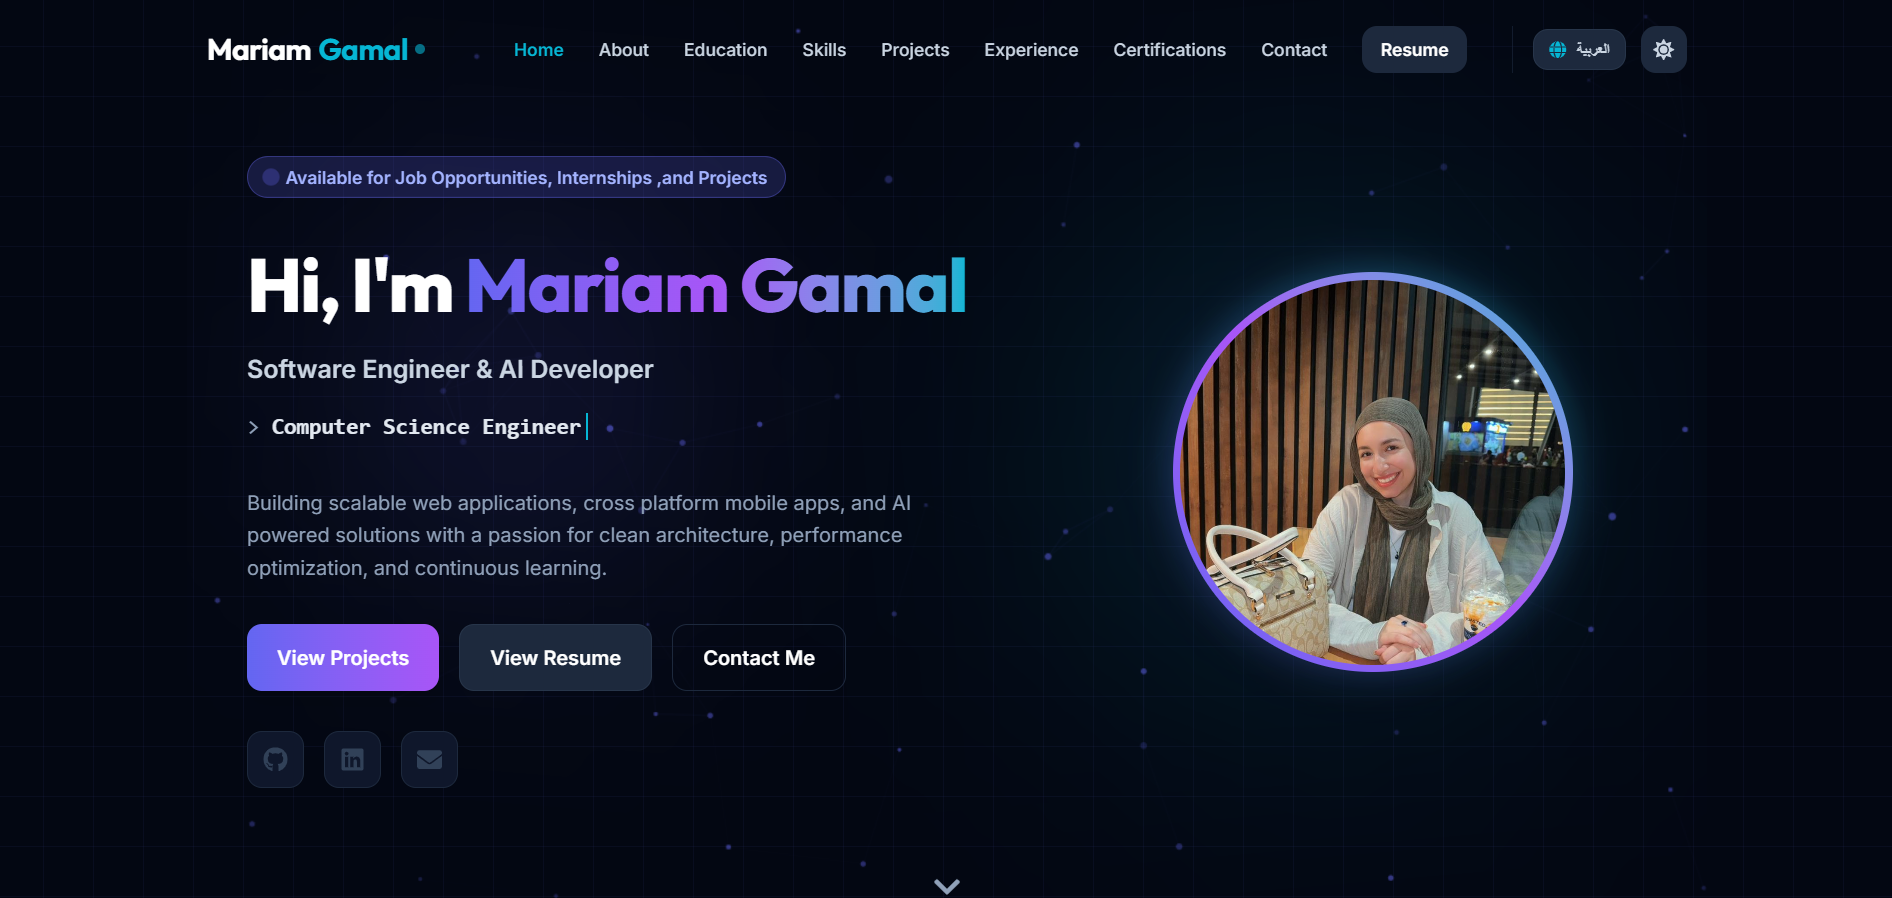
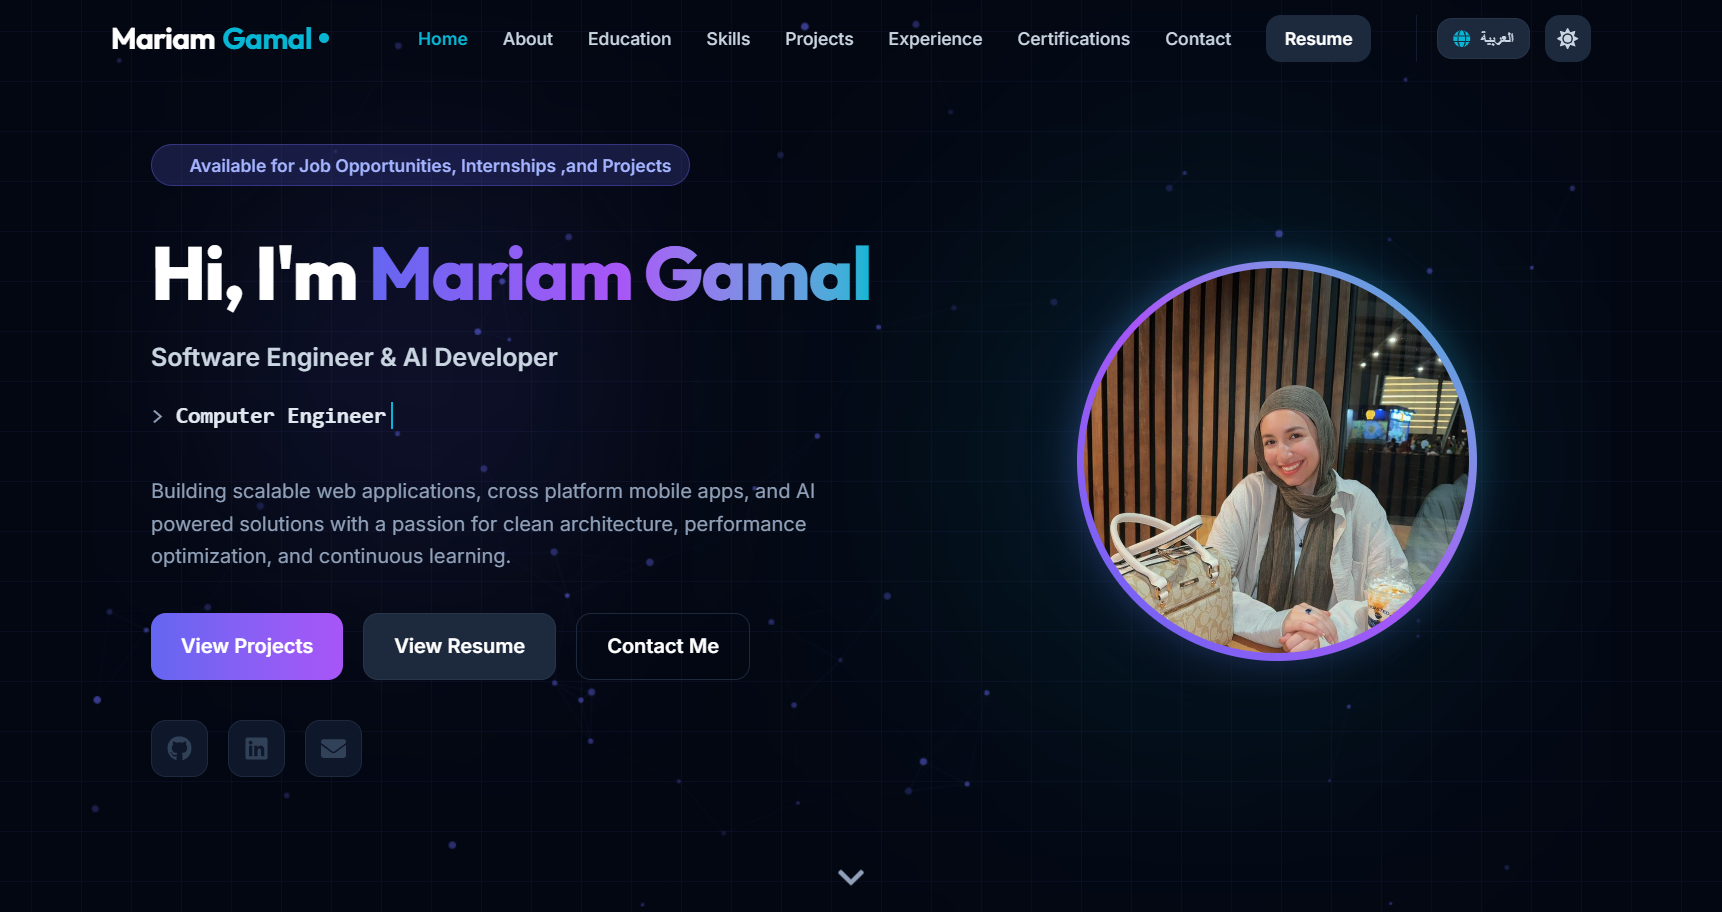
feat: update about bio, taglines, experience, and footer specialization details

diff --git a/src/data/translations.ts b/src/data/translations.ts
@@ -17,7 +17,7 @@ export const translations = {
       greeting: "Hi, I'm",
       name: "Mariam Gamal",
       title: "Software Engineer & AI Developer",
-      taglines: ["Computer Science Engineer", "Full Stack Developer", "Mobile App Developer"],
+      taglines: ["Computer Engineer", "Web Developer", "Mobile App Developer", "Graphic Designer"],
       bio: "Building scalable web applications, cross platform mobile apps, and AI powered solutions with a passion for clean architecture, performance optimization, and continuous learning.",
       btnProjects: "View Projects",
       btnResume: "View Resume",
@@ -26,7 +26,7 @@ export const translations = {
     about: {
       title: "About Me",
       heading: "Aspiring Software Engineer & AI Developer",
-      p1: "I am a Computer Science Engineering student passionate about Software Engineering, Artificial Intelligence, Full Stack Web Development, Mobile Application Development, and UI/UX Design. I enjoy transforming ideas into scalable, user focused digital solutions by combining modern technologies with strong engineering principles.",
+      p1: "I am a Computer Engineer passionate about Software Engineering, Artificial Intelligence, Web Development, Mobile Application Development, Graphic Design and UI/UX Design. I enjoy transforming ideas into scalable, user focused digital solutions by combining modern technologies with strong engineering principles.",
       p2: "My experience includes developing responsive web and mobile applications, designing backend architectures, building RESTful APIs, working with databases, and implementing AI powered solutions such as Retrieval Augmented Generation (RAG) systems. I continuously explore machine learning and modern software technologies to solve real world problems.",
       p3: "I am committed to writing clean, maintainable, and efficient code while following best practices in software architecture and system design. Through continuous learning, collaboration, and hands on projects, I strive to build high quality applications that deliver excellent performance, scalability, and user experience.",
       stat1Label: "E-JUST Study",
@@ -227,7 +227,7 @@ export const translations = {
         {
           title: "Software Testing",
           company: "Information Technology Institute (ITI)",
-          period: "Aug 2026 - Present",
+          period: "Aug 2026 - Sep 2026",
           desc: "Conducting comprehensive software testing procedures to ensure application quality and functionality across multiple projects & Collaborating with development teams to identify and resolve defects throughout the software development lifecycle, implementing automated testing solutions."
         },
         {
@@ -247,6 +247,12 @@ export const translations = {
           company: "Decode Labs Company",
           period: "Jun 1 – Jul 1, 2026",
           desc: "Worked on applied AI projects during a one month internship, strengthening practical skills in AI development and implementation."
+        },
+        {
+          title: "Web Development Training Program",
+          company: "Zidio Development Company",
+          period: "May 2026 - Jul 2026",
+          desc: "Participated in an intensive web development training program, building and deploying full-stack applications using modern frameworks and best practices & Collaborated on real world projects to enhance practical skills in frontend and backend development, API integration, and responsive design."
         },
         {
           title: "Generative AI Internship Program",
@@ -311,7 +317,7 @@ export const translations = {
     footer: {
       logoTitle: "Mariam",
       logoTitle2: "Gamal",
-      sub: "Computer Science Engineer specializing in Full Stack Web Development, Mobile Applications & AI.",
+      sub: "Computer Engineer specializing in Web Development, Mobile Applications, Graphic Designs & AI.",
       rights: "All rights reserved.",
       top: "Back to Top ↑"
     }
@@ -334,7 +340,7 @@ export const translations = {
       greeting: "أهلاً، أنا",
       name: "مريم جمال",
       title: "مهندسة برمجيات ومطورة ذكاء اصطناعي",
-      taglines: ["مهندسة علوم حاسب", "مطورة فول ستاك", "مطورة تطبيقات موبايل"],
+      taglines: ["مهندسة حاسب", "مطورة ويب", "مطورة تطبيقات موبايل", "مصممة جرافيك"],
       bio: "بناء تطبيقات ويب قابلة للتوسع، تطبيقات موبايل متعددة المنصات، وحلول مدعومة بالذكاء الاصطناعي مع شغف بالمعمارية النظيفة، تحسين الأداء، والتعلم المستمر.",
       btnProjects: "عرض المشاريع",
       btnResume: "السيرة الذاتية",
@@ -343,7 +349,7 @@ export const translations = {
     about: {
       title: "نبذة عني",
       heading: "مهندسة برمجيات ومطورة ذكاء اصطناعي طموحة",
-      p1: "أنا طالبة في قسم هندسة وعلوم الحاسب بشغف كبير في هندسة البرمجيات، الذكاء الاصطناعي، تطوير الويب المتكامل (Full Stack)، تطوير تطبيقات الموبايل، وتصميم واجهات وتجربة المستخدم (UI/UX). أستمتع بتحويل الأفكار إلى حلول رقمية قابلة للتوسع ومتمحورة حول المستخدم من خلال دمج التقنيات الحديثة مع المبادئ الهندسية القوية.",
+      p1: "أنا مهندسة حاسب بشغف كبير في هندسة البرمجيات، الذكاء الاصطناعي، تطوير الويب، تطوير تطبيقات الموبايل، التصميم الجرافيكي، وتصميم واجهات وتجربة المستخدم (UI/UX). أستمتع بتحويل الأفكار إلى حلول رقمية قابلة للتوسع ومتمحورة حول المستخدم من خلال دمج التقنيات الحديثة مع المبادئ الهندسية القوية.",
       p2: "تتضمن خبرتي تطوير تطبيقات الويب والموبايل المتجاوبة، تصميم البنيات التحتية الخلفية، بناء واجهات برمجة التطبيقات (RESTful APIs)، العمل مع قواعد البيانات، وتنفيذ الحلول المدعومة بالذكاء الاصطناعي مثل أنظمة RAG. أستمر دائماً في استكشاف التعلم الآلي وتقنيات البرمجيات الحديثة لحل المشكلات الواقعية.",
       p3: "أنا ملتزمة بكتابة كود نظيف، قابل للصيانة، وفعال مع اتباع أفضل الممارسات في معمارية البرمجيات وتصميم الأنظمة. من خلال التعلم المستمر، التعاون، والمشاريع التطبيقية، أسعى لبناء تطبيقات عالية الجودة تقدم أداءً ممتازاً، وسلاسة، وتجربة مستخدم متميزة.",
       stat1Label: "سنوات دراسة الجامعة",
@@ -544,7 +550,7 @@ export const translations = {
         {
           title: "اختبار البرمجيات (Software Testing)",
           company: "معهد تكنولوجيا المعلومات (ITI)",
-          period: "أغسطس 2026 - الحالي",
+          period: "أغسطس 2026 - سبتمبر 2026",
           desc: "إجراء اختبارات شاملة للبرمجيات لضمان جودة التطبيقات ووظائفها عبر مشاريع متعددة، والتعاون مع فرق التطوير لتحديد العيوب وإصلاحها طوال دورة حياة تطوير البرمجيات وتنفيذ حلول الاختبار الآلي."
         },
         {
@@ -564,6 +570,12 @@ export const translations = {
           company: "شركة ديكود لابس (Decode Labs)",
           period: "1 يونيو – 1 يوليو 2026",
           desc: "العمل على مشاريع ذكاء اصطناعي تطبيقية خلال تدريب لمدة شهر، وتعزيز المهارات العملية في تطوير وتنفيذ حلول الذكاء الاصطناعي."
+        },
+        {
+          title: "برنامج تدريب تطوير الويب (Web Development Training Program)",
+          company: "شركة زيديو للتطوير (Zidio Development Company)",
+          period: "مايو 2026 - يوليو 2026",
+          desc: "المشاركة في برنامج تدريبي مكثف في تطوير الويب، وبناء ونشر تطبيقات فول ستاك باستخدام أحدث أطر العمل وأفضل الممارسات، والتعاون في مشاريع واقعية لتعزيز المهارات العملية في التطوير الأمامي والخلفي وتكامل واجهات البرمجة (APIs) والتصميم المتجاوب."
         },
         {
           title: "برنامج تدريب الذكاء الاصطناعي التوليدي (Generative AI Internship Program)",
@@ -628,7 +640,7 @@ export const translations = {
     footer: {
       logoTitle: "مريم",
       logoTitle2: "جمال",
-      sub: "مهندسة علوم حاسب متخصصة في تطوير الويب المتكامل والذكاء الاصطناعي التطبيقي.",
+      sub: "مهندسة حاسب متخصصة في تطوير الويب، تطبيقات الموبايل، التصميم الجرافيكي والذكاء الاصطناعي.",
       rights: "جميع الحقوق محفوظة.",
       top: "العودة للأعلى ↑"
     }

diff --git a/index.html b/index.html
@@ -7,24 +7,24 @@
   <meta name="viewport" content="width=device-width, initial-scale=1.0" />
 
   <!-- SEO Meta Tags -->
-  <title>Mariam Gamal | Computer Science Engineer</title>
+  <title>Mariam Gamal | Computer Engineer</title>
   <meta name="description"
-    content="Portfolio of Mariam Gamal, a Computer Science Engineer specializing in Full Stack Web Development, Mobile Applications &amp; AI." />
+    content="Portfolio of Mariam Gamal, a Computer Engineer specializing in Web Development, Mobile Applications, Graphic Designs &amp; AI." />
   <meta name="keywords"
-    content="Mariam Gamal, Computer Science, Engineer, Full Stack, Web Developer, Mobile Applications, AI, React, Next.js" />
+    content="Mariam Gamal, Computer Engineer, Web Developer, Mobile Applications, Graphic Design, AI, React, Next.js" />
   <meta name="author" content="Mariam Gamal" />
 
   <!-- Open Graph / WhatsApp / Social Media Meta Tags -->
   <meta property="og:type" content="website" />
-  <meta property="og:title" content="Mariam Gamal | Computer Science Engineer" />
+  <meta property="og:title" content="Mariam Gamal | Computer Engineer" />
   <meta property="og:description"
-    content="Portfolio of Mariam Gamal, a Computer Science Engineer specializing in Full Stack Web Development, Mobile Applications &amp; AI." />
+    content="Portfolio of Mariam Gamal, a Computer Engineer specializing in Web Development, Mobile Applications, Graphic Designs &amp; AI." />
 
   <!-- Twitter Meta Tags -->
   <meta name="twitter:card" content="summary_large_image" />
-  <meta name="twitter:title" content="Mariam Gamal | Computer Science Engineer" />
+  <meta name="twitter:title" content="Mariam Gamal | Computer Engineer" />
   <meta name="twitter:description"
-    content="Portfolio of Mariam Gamal, a Computer Science Engineer specializing in Full Stack Web Development, Mobile Applications &amp; AI." />
+    content="Portfolio of Mariam Gamal, a Computer Engineer specializing in Web Development, Mobile Applications, Graphic Designs &amp; AI." />
 
   <!-- Google Fonts -->
   <link rel="preconnect" href="https://fonts.googleapis.com" />
